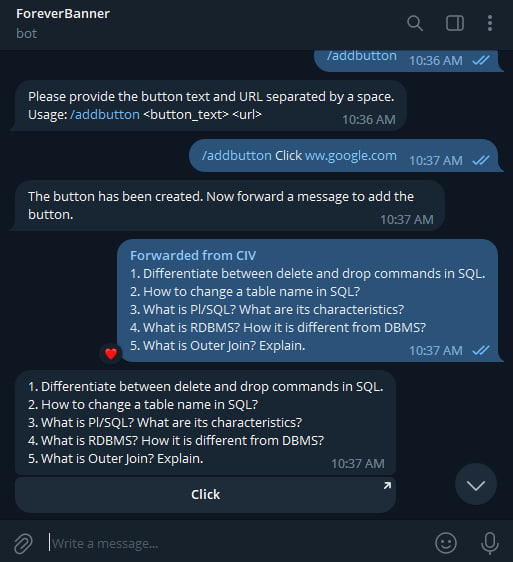
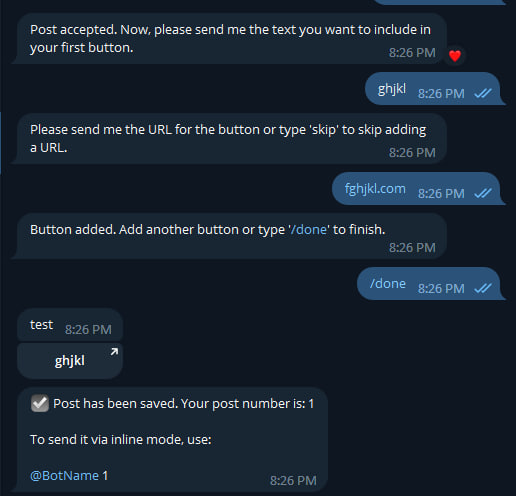
Feature addition and changed it
It's better and more useful

diff --git a/Banner_bot.py b/Banner_bot.py
@@ -8,7 +8,7 @@ from telegram.ext import (
     CommandHandler,
 )
 
-TOKEN = "YOUR_BOT_TOKEN"
+TOKEN = "6115831664:AAFJ6zbsYAfQruWCZpOwIhHd_U5-KswlUR0"
 
 logging.basicConfig(
     format="%(asctime)s - %(name)s - %(levelname)s - %(message)s", level=logging.INFO

diff --git a/README.md b/README.md
@@ -60,18 +60,18 @@ python Banner_bot.py
 
 For example:
 
-    /addbuttons Hello, World!: Generates a banner with the text "Hello, World!".
-	
-	Usage: /addbuttons <text1> <URL1> <text2> <URL2> 
-	
-	Just Forward a message Ensure that it looks like this 
+    Usage: First send the post that you want to add banners to
+
+## Video Tutorial
+
+https://youtu.be/1abmUunvV-o	
 	
 	
 ##	Screenshot 👇👇
 	
 ![Screenshot 1](screenshot/screenshot.jpg)
 
-/start: Displays nothing
+/start: Displays message 
 
 ## Contributing
 
